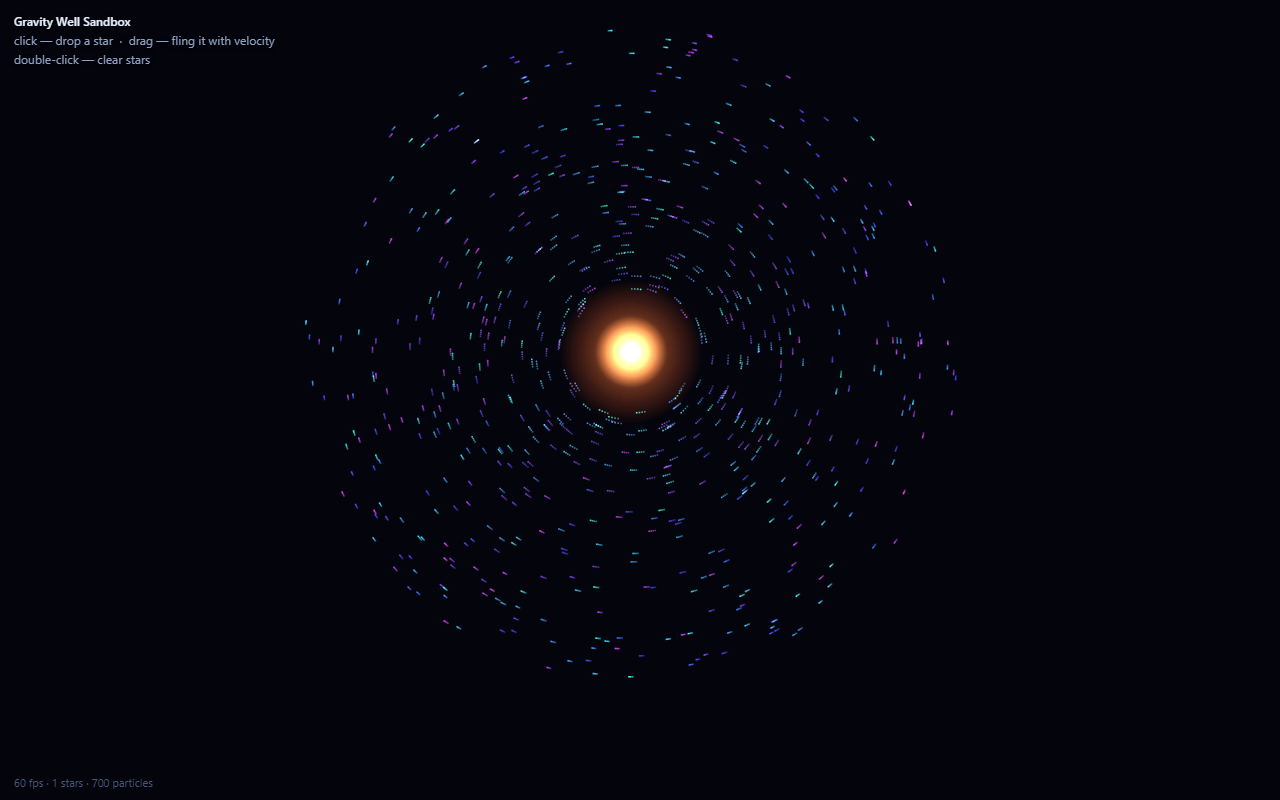
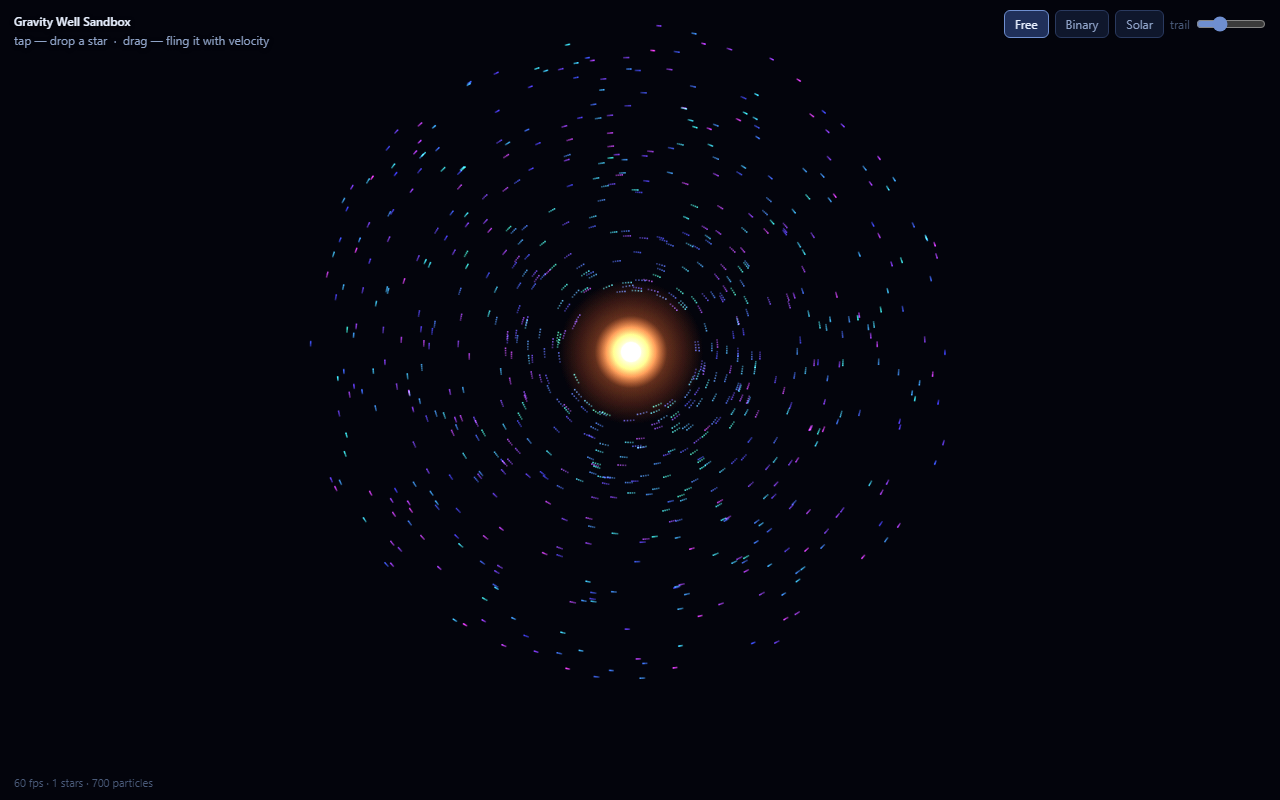
T20: gravity well presets (binary/solar via buttons + #hash), trail-fade slider, 390px mobile layout

diff --git a/projects/gravity-well/index.html b/projects/gravity-well/index.html
@@ -15,14 +15,38 @@
   #hud b { color: #e8f0ff; font-weight: 600; }
   #stats { position: fixed; bottom: 10px; left: 14px; color: #4a5b7a;
     font: 11px 'Segoe UI', system-ui, sans-serif; pointer-events: none; }
+  #bar {
+    position: fixed; top: 10px; right: 12px; display: flex; gap: 6px;
+    align-items: center; flex-wrap: wrap; justify-content: flex-end;
+    font: 12px 'Segoe UI', system-ui, sans-serif;
+  }
+  #bar button {
+    background: rgba(20,30,55,0.75); color: #8fa3c8; border: 1px solid #2a3a5f;
+    border-radius: 6px; padding: 5px 10px; font: inherit; cursor: pointer;
+  }
+  #bar button.on { color: #e8f0ff; border-color: #6f8fd0; background: rgba(40,60,110,0.8); }
+  #bar label { color: #4a5b7a; display: flex; align-items: center; gap: 4px; }
+  #bar input[type=range] { width: 70px; accent-color: #6f8fd0; }
+  @media (max-width: 430px) {
+    #hud { font-size: 10px; top: auto; bottom: 28px; }
+    #hud br + * { display: inline; }
+    #stats { bottom: 8px; }
+    #bar { left: 10px; right: 10px; justify-content: flex-start; }
+    #bar button { padding: 7px 12px; }
+  }
 </style>
 </head>
 <body>
 <canvas id="c"></canvas>
 <div id="hud"><b>Gravity Well Sandbox</b><br>
-click — drop a star &nbsp;·&nbsp; drag — fling it with velocity<br>
-double-click — clear stars</div>
+tap — drop a star &nbsp;·&nbsp; drag — fling it with velocity</div>
 <div id="stats"></div>
+<div id="bar">
+  <button id="pFree">Free</button>
+  <button id="pBinary">Binary</button>
+  <button id="pSolar">Solar</button>
+  <label>trail <input id="trail" type="range" min="4" max="45" value="16"></label>
+</div>
 <script>
 'use strict';
 const cv = document.getElementById('c'), ctx = cv.getContext('2d');
@@ -38,24 +62,70 @@ const bodies = [];         // massive stars
 const parts = new Float32Array(N * 4);  // x, y, vx, vy
 const hue = new Float32Array(N);
 
-function spawnParticle(i, cx, cy) {
-  // ring around (cx,cy) with tangential orbital velocity
+function spawnParticle(i, cx, cy, m, rMax, cvx, cvy) {
+  // ring around (cx,cy) with tangential orbital velocity, inheriting center velocity
   const a = Math.random() * Math.PI * 2;
-  const r = 60 + Math.random() * Math.min(W, H) * 0.38;
+  const r = 60 + Math.random() * (rMax || Math.min(W, H) * 0.38);
   const x = cx + Math.cos(a) * r, y = cy + Math.sin(a) * r;
-  const m = bodies.length ? bodies[0].m : 900;
+  m = m || (bodies.length ? bodies[0].m : 900);
   const v = Math.sqrt(G * m / r) * (0.85 + Math.random() * 0.3);
   parts[i*4] = x; parts[i*4+1] = y;
-  parts[i*4+2] = -Math.sin(a) * v; parts[i*4+3] = Math.cos(a) * v;
+  parts[i*4+2] = -Math.sin(a) * v + (cvx || 0);
+  parts[i*4+3] = Math.cos(a) * v + (cvy || 0);
   hue[i] = 190 + Math.random() * 120; // cyan → violet
 }
 
-function reset() {
+// --- presets ---
+const presets = {
+  free() {
+    bodies.push({ x: W/2, y: H/2, vx: 0, vy: 0, m: 900 });
+    for (let i = 0; i < N; i++) spawnParticle(i, W/2, H/2);
+  },
+  binary() {
+    // two equal stars in circular orbit around their barycenter
+    const m = 800, d = Math.min(W, H) * 0.28;
+    const v = Math.sqrt(G * m / (2 * d));   // circular two-body speed
+    bodies.push({ x: W/2 - d/2, y: H/2, vx: 0, vy:  v, m });
+    bodies.push({ x: W/2 + d/2, y: H/2, vx: 0, vy: -v, m });
+    for (let i = 0; i < N; i++) {
+      const b = bodies[i & 1];
+      spawnParticle(i, b.x, b.y, m, d * 0.32, b.vx, b.vy);
+    }
+  },
+  solar() {
+    // heavy sun + planets on circular orbits, particle disc
+    const M = 2400;
+    bodies.push({ x: W/2, y: H/2, vx: 0, vy: 0, m: M });
+    const rMax = Math.min(W, H) * 0.44;
+    for (let p = 0; p < 5; p++) {
+      const r = rMax * (0.28 + p * 0.17), a = Math.random() * Math.PI * 2;
+      const v = Math.sqrt(G * M / r);
+      bodies.push({
+        x: W/2 + Math.cos(a) * r, y: H/2 + Math.sin(a) * r,
+        vx: -Math.sin(a) * v, vy: Math.cos(a) * v, m: 40 + p * 25,
+      });
+    }
+    for (let i = 0; i < N; i++) spawnParticle(i, W/2, H/2, M, rMax);
+  },
+};
+
+let mode = 'free';
+function reset(name) {
+  mode = name || mode;
   bodies.length = 0;
-  bodies.push({ x: W/2, y: H/2, vx: 0, vy: 0, m: 900 });
-  for (let i = 0; i < N; i++) spawnParticle(i, W/2, H/2);
+  presets[mode]();
+  for (const el of document.querySelectorAll('#bar button'))
+    el.classList.toggle('on', el.id === 'p' + mode[0].toUpperCase() + mode.slice(1));
 }
-reset();
+reset(presets[location.hash.slice(1)] ? location.hash.slice(1) : 'free');
+for (const name of ['free', 'binary', 'solar'])
+  document.getElementById('p' + name[0].toUpperCase() + name.slice(1))
+    .addEventListener('click', () => reset(name));
+
+let fade = 0.16;
+document.getElementById('trail').addEventListener('input', e => {
+  fade = e.target.value / 100;   // low = long trails, high = crisp
+});
 
 // --- input: click drops a body, drag sets its initial velocity ---
 let drag = null;
@@ -130,7 +200,7 @@ function frame(now) {
 
   // fade previous frame → motion trails
   ctx.globalCompositeOperation = 'source-over';
-  ctx.fillStyle = 'rgba(4,6,14,0.16)';
+  ctx.fillStyle = `rgba(4,6,14,${fade})`;
   ctx.fillRect(0, 0, W, H);
 
   ctx.globalCompositeOperation = 'lighter';